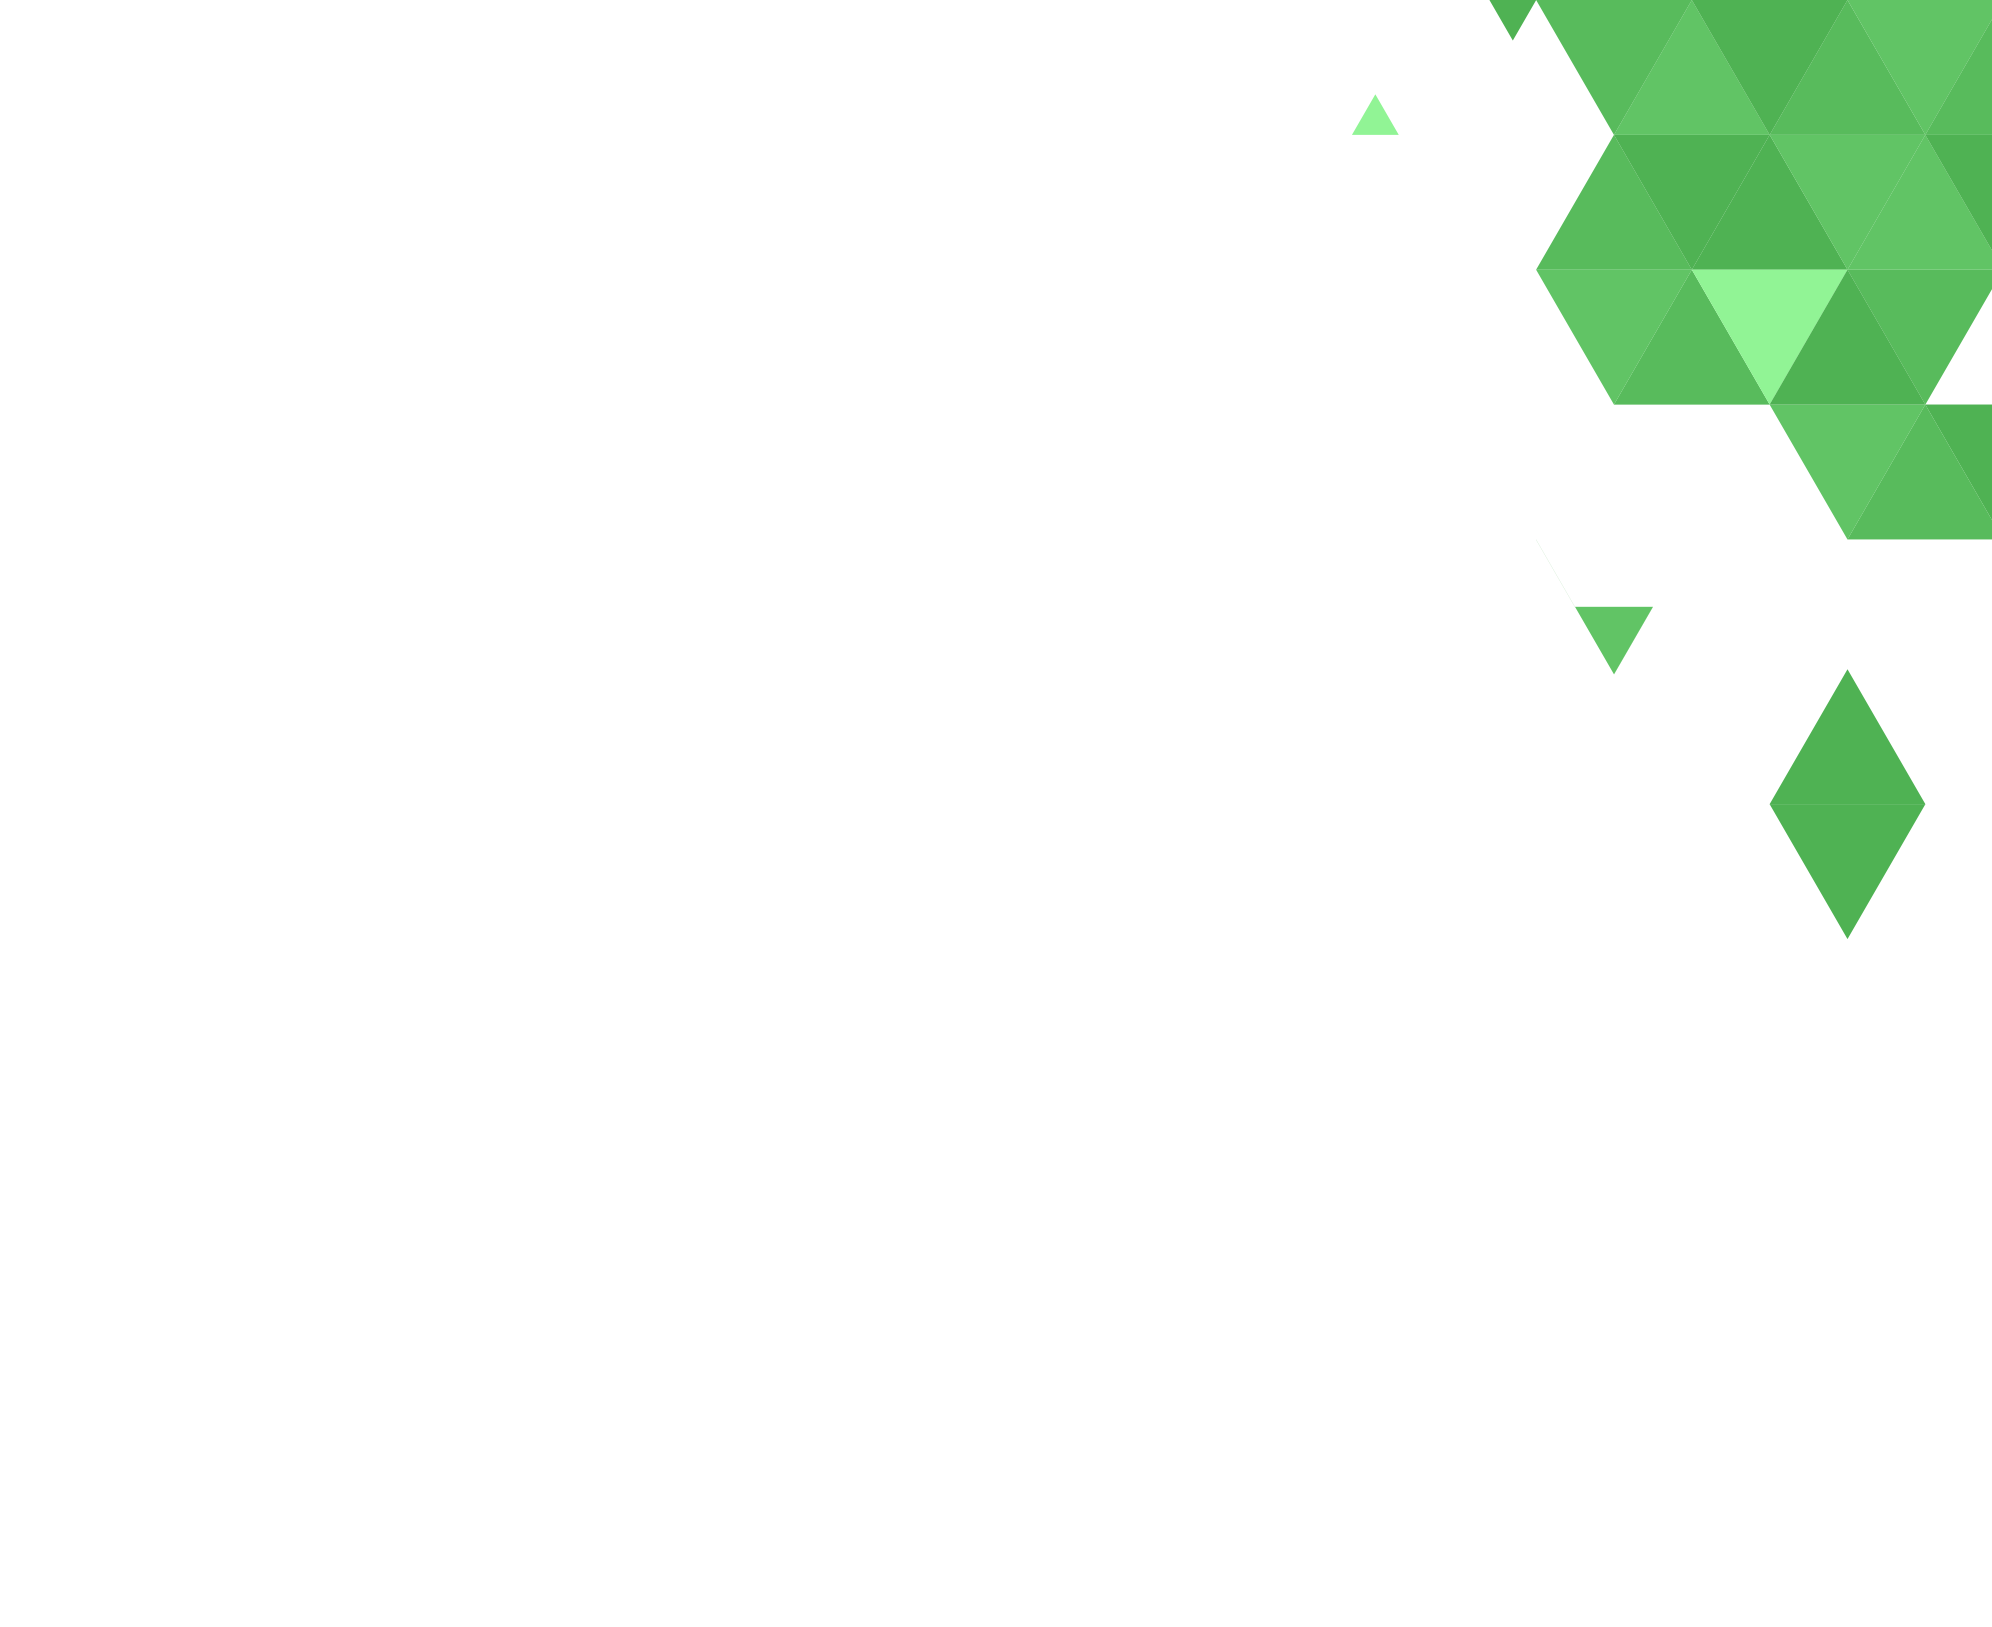
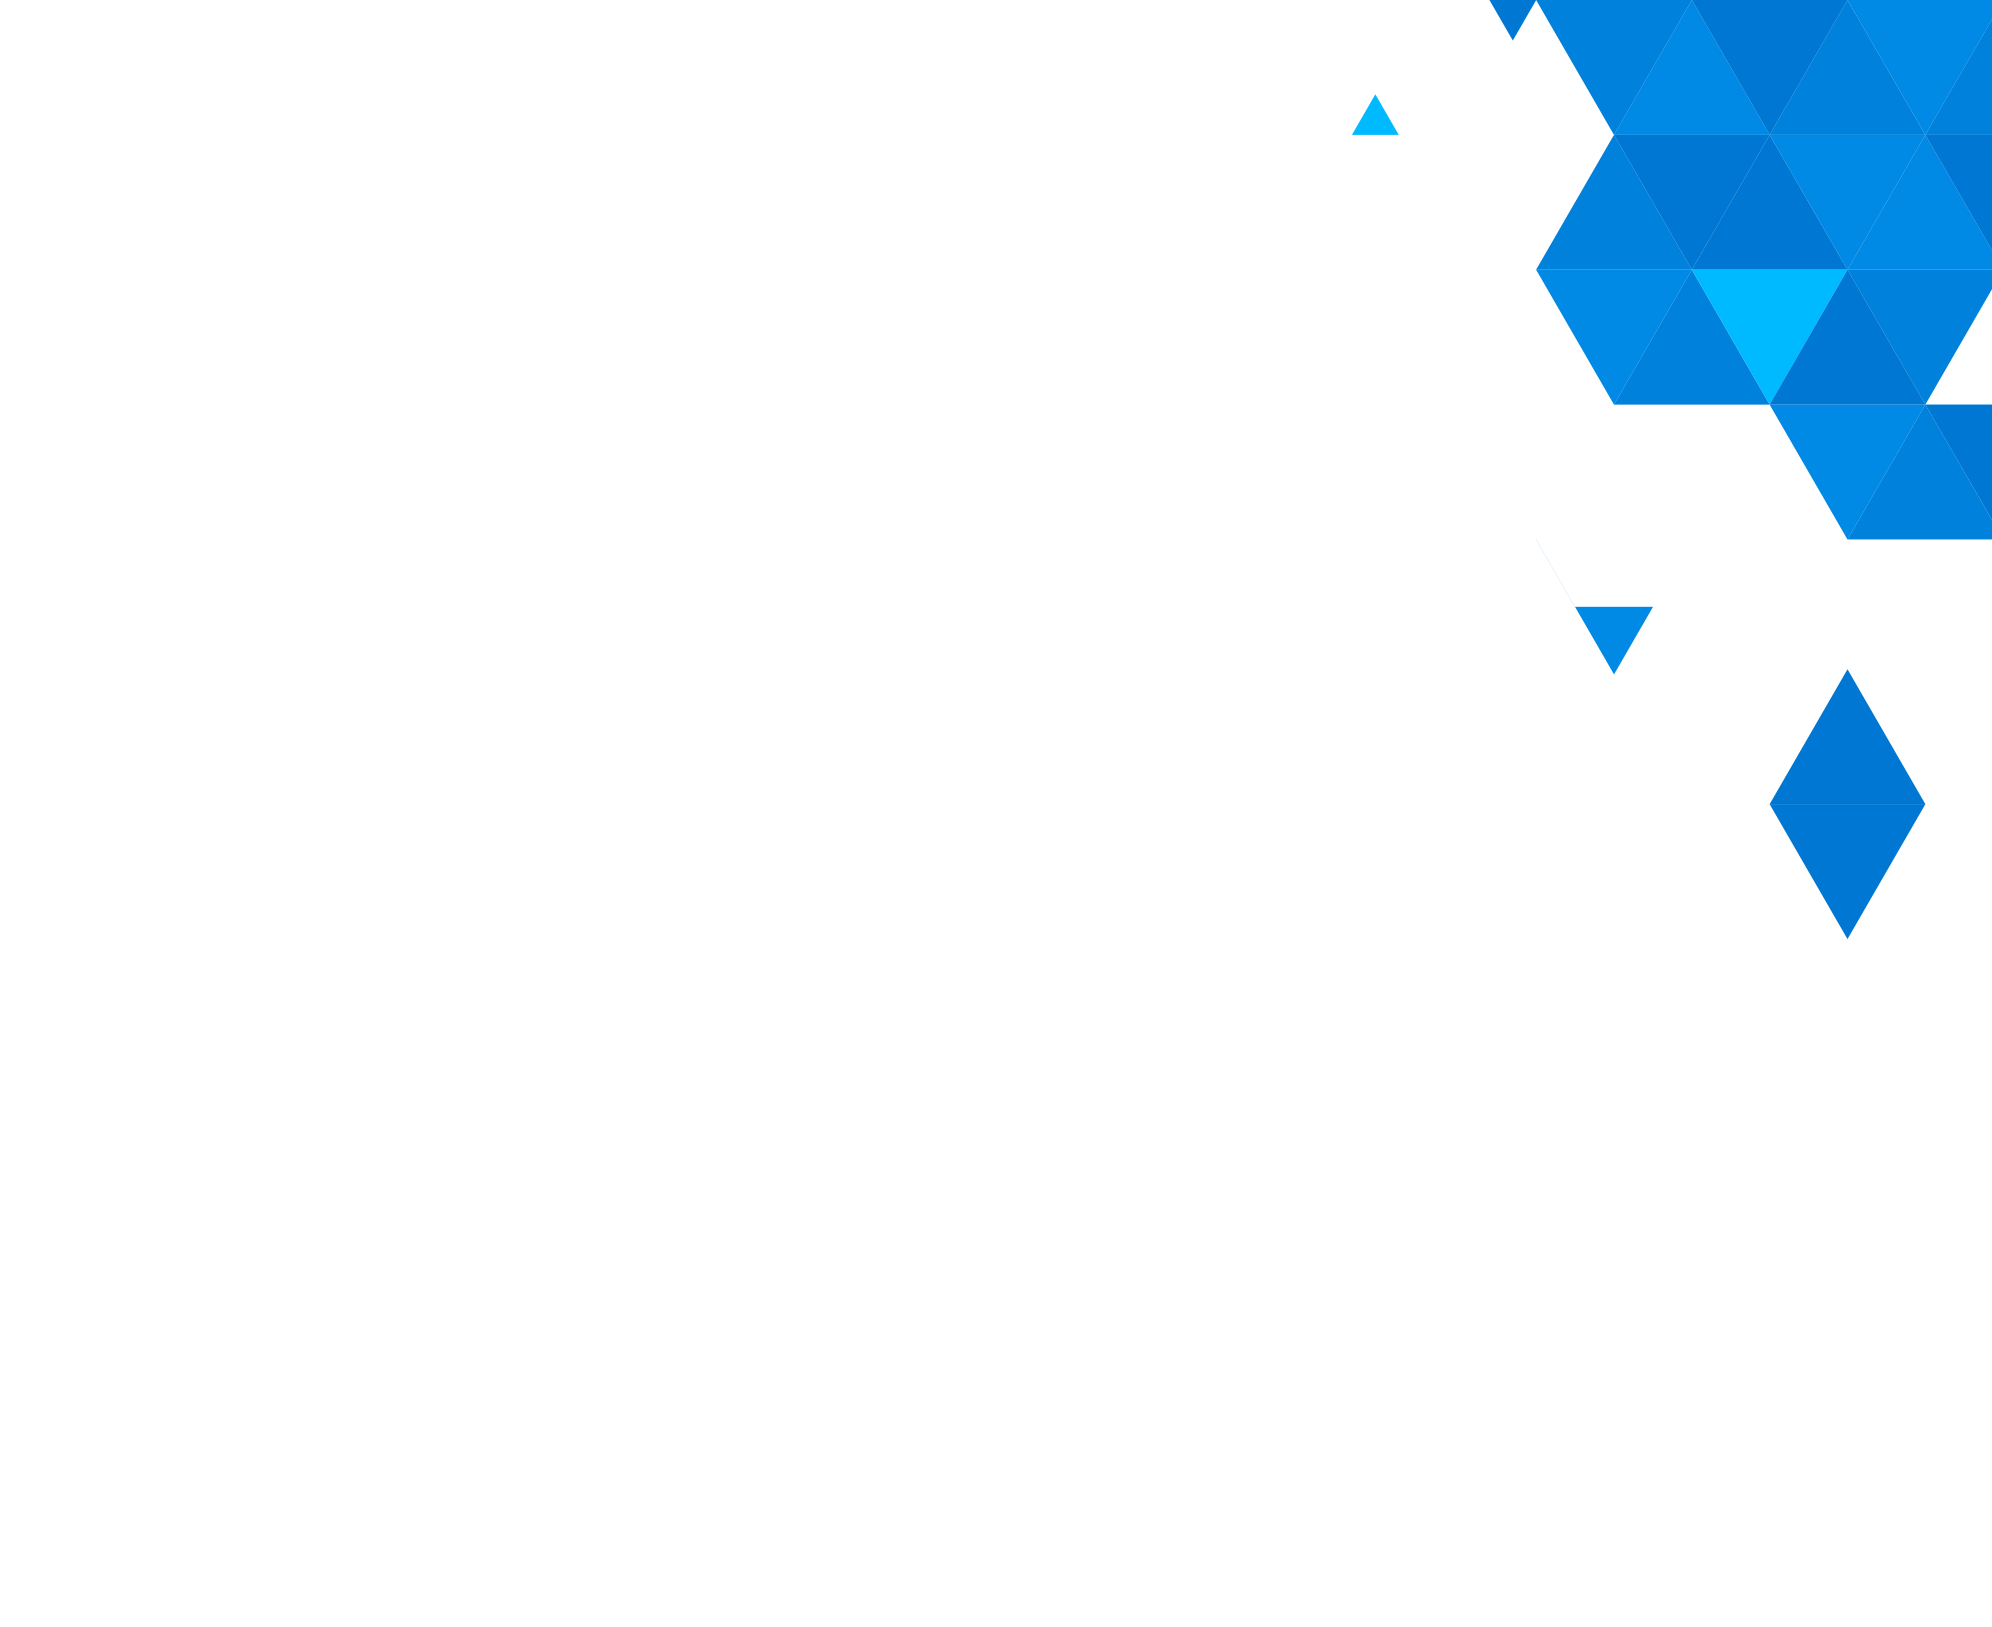
kelvin: the blue colors

diff --git a/css/landing-assets/css/landing.css b/css/landing-assets/css/landing.css
@@ -381,12 +381,12 @@ img {
 }
 .btn-primary {
   color: #fff !important;
-  background: #4CAF50;
-  border-color: #4CAF50
+  background: #0063c0;
+    border-color: #0063c0;
 }
 .btn-primary:hover {
-  background: #f2530d;
-  border-color: #f2530d
+  background: #0063c0;
+  border-color: #0063c0
 }
 .btn-secondary {
   color: #fff !important;
@@ -3562,7 +3562,7 @@ table.dataTable td:last-child, table.dataTable th:last-child{
   left: 0px;
   top:0px;
 	background-image: linear-gradient(-90deg, #000000d9, #031af44a);
-	background-image: linear-gradient(-90deg, #4CAF50, #020516b0);
+	background-image: linear-gradient(-90deg, #00439ef2, #0374d2a6);
 	
 }
 
@@ -3577,7 +3577,7 @@ table.dataTable td:last-child, table.dataTable th:last-child{
 }
 
 .bg-green{
-	background-color: #4CAF50;
+	background-color: #0063c0;
 	
 }
 .bg-yellow{

diff --git a/css/app.min.css b/css/app.min.css
@@ -13590,7 +13590,7 @@ ul.jqtree-tree ul.jqtree_common {
 	content: "";
 	top: 0;
 	left: 0;
-	background:linear-gradient(rgb(0, 67, 29), rgba(1, 56, 25, 0.89));
+	background:linear-gradient(#0045a1, #0374d254);
 	z-index: -1;
 	
 }
